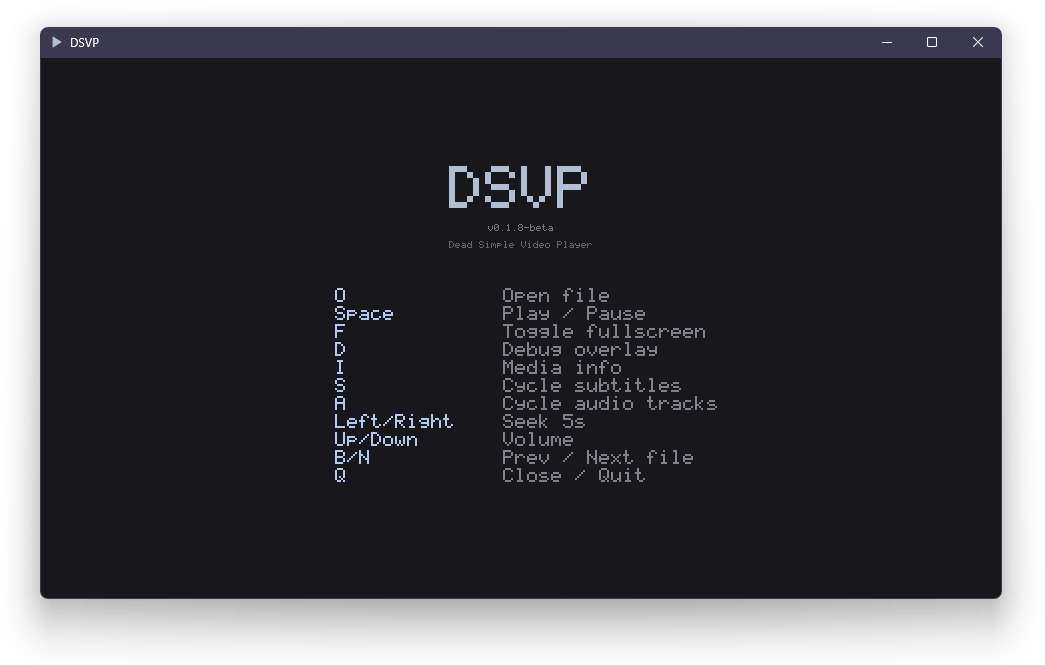
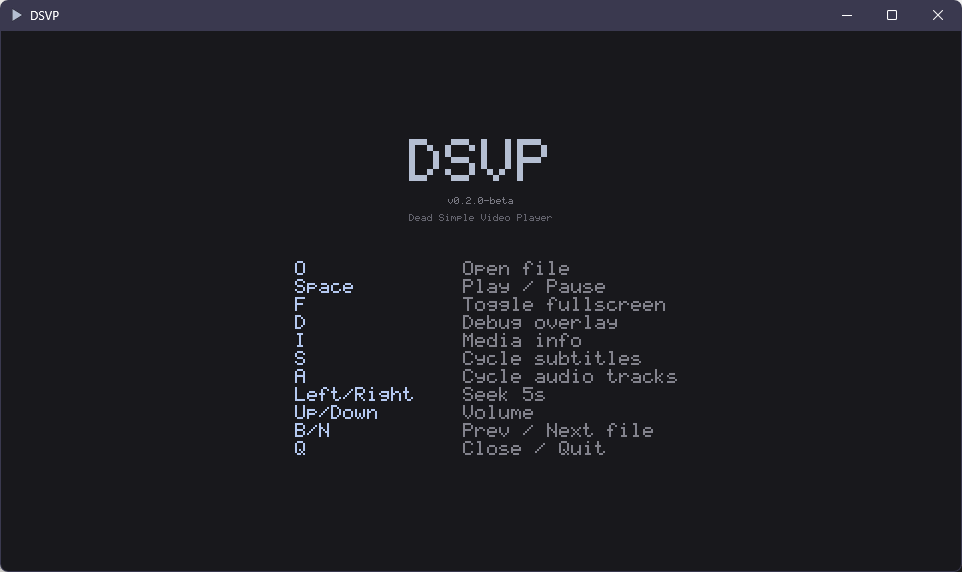
update README for 0.2.0b

diff --git a/README.md b/README.md
@@ -3,9 +3,11 @@
 
 <img alt="DSVPmenu" src="docs/DSVPmenu.png" />
 
-WHY? Because I can. And education. And I'm a config-fiddler that wanted to offer a mpv-style player without configs or intimidation factor. Think of DSVP as a middle-man between VLC and mpv. It's not as SOTA as mpv but should be more "user-friendly". Or less, if you don't have a keyboard. Should offer better quality than VLC as it uses more modern FFmpeg libraries. It *should* play anything you throw at it.
+WHY? Because I can. And education. And I'm a config-fiddler that wanted to offer a mpv-style player without configs or intimidation factor. Think of DSVP as a middle-man between VLC and mpv. It's not as SOTA as mpv but should be more "user-friendly". 
 
-There are portable Windows and Linux builds on the Releases page, and Steam Deck builds you can download and try [HERE](https://github.com/ASIXicle/DSVP/releases/tag/v0.1.8-beta-steamdeck). The portable tarballs bundle all dependencies including FFmpeg 8.1 — just extract and run. Windows and Debian installers are also available. The Steam Deck build (see `steamdeck` branch) includes VAAPI hardware decode for HEVC.
+TODO: bitstream support and HDR autodetect/output. Soon. ish.
+
+There are portable Windows and Linux builds on the Releases page, and Steam Deck builds you can download and try [HERE](https://github.com/ASIXicle/DSVP/releases/tag/v0.2.0-beta-steamdeck). The portable tarballs bundle all dependencies including FFmpeg 8.1 — just extract and run. Windows and Debian installers are also available. The Steam Deck build (see `steamdeck` branch) includes VAAPI hardware decode for HEVC.
 
 REQUIRES Visual C++ Redistributable runtime on Windows (vcruntime140.dll). It's probably already on your PC but you can get it here:
 https://learn.microsoft.com/en-us/cpp/windows/latest-supported-vc-redist?view=msvc-170
@@ -14,7 +16,7 @@ https://learn.microsoft.com/en-us/cpp/windows/latest-supported-vc-redist?view=ms
 
 **Windows:** Download `DSVP-0.2.0-beta-setup.exe` from [Releases](https://github.com/ASIXicle/DSVP/releases/) and run it. Installs to Program Files with Start Menu shortcuts and an uninstaller. Alternatively, download the portable `.zip` — extract and run, no installation needed.
 
-**Debian/Ubuntu:** Download `dsvp_0.2.0-beta_amd64.deb` from [Releases](https://github.com/ASIXicle/DSVP/releases/) and install with `sudo dpkg -i dsvp_0.2.0-beta_amd64.deb`. Bundles all dependencies. Run `dsvp` from a terminal or your application launcher.
+**Debian/Ubuntu:** (coming shortly) Download `dsvp_0.2.0-beta_amd64.deb` from [Releases](https://github.com/ASIXicle/DSVP/releases/) and install with `sudo dpkg -i dsvp_0.2.0-beta_amd64.deb`. Bundles all dependencies. Run `dsvp` from a terminal or your application launcher.
 
 **Steam Deck:** See [SteamOS.md](SteamOS.md) for the dedicated Steam Deck build with VAAPI hardware decode.
 
@@ -187,6 +189,8 @@ DSVP/
 ```
 
 ## Technical Details
+
+<img alt="DSVP_example" src="docs/DSVP_example.png" />
 
 DSVP uses a custom GPU rendering pipeline built on SDL_GPU with HLSL shaders cross-compiled to SPIR-V via SDL3_shadercross 3.0.0. The fragment shader performs Lanczos-2 resampling on luma (16-tap windowed sinc with anti-ringing clamp at 0.8), Catmull-Rom bicubic interpolation on chroma (16-tap with sub-texel siting correction), limited→full range expansion, BT.601/BT.709/BT.2020 color matrix conversion, and temporal blue noise dithering (64×64 void-and-cluster texture, per-frame offset) — all in a single pass. YUV420P and YUV420P10LE formats bypass `swscale` entirely; raw decoded planes upload directly to GPU textures.
 
